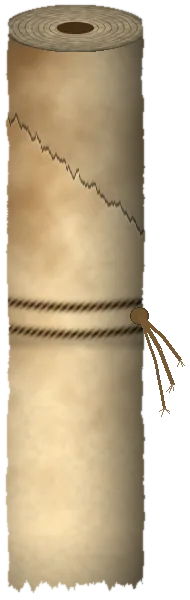
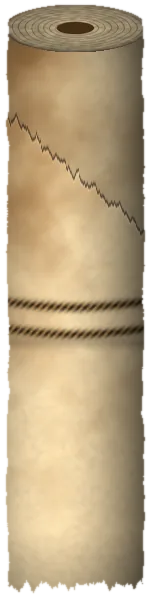
Contact scroll: no edge overhang, realistic larger quill, white SEND, rounded field highlights; closed scroll matches the bottle's note
The curled edges now end level with the paper at the bottom. The quill
cursor is a bigger (96px), more detailed burgundy feather with a copper
grip and steel nib. The seal's SEND is white, field highlights have
rounded corners, and the knot is gone from the rolled scroll and the 3D
note. The scroll now shrinks as it rolls up so that, closed, it is the
3D note's exact size where the bottle will be; it lines up at the mouth
and slides in together with the note.

Claude-Session: https://claude.ai/code/session_017duqhLnJj8AB6LNW48U1TW

diff --git a/contact.html b/contact.html
@@ -12,10 +12,10 @@
     </script>
     <link rel="stylesheet" href="styles.css?v=48" />
     <link rel="stylesheet" href="https://fonts.googleapis.com/css2?family=Caveat:wght@500;600&display=swap" />
-    <link rel="stylesheet" href="shore.css?v=9" />
+    <link rel="stylesheet" href="shore.css?v=10" />
     <script src="script.js?v=47" defer></script>
     <script type="importmap">{"imports":{"three":"https://cdn.jsdelivr.net/npm/three@0.170.0/build/three.module.min.js"}}</script>
-    <script type="module" src="shore-scene.js?v=3"></script>
+    <script type="module" src="shore-scene.js?v=4"></script>
   </head>
   <body class="shore-page">
     <header class="site-nav">
@@ -119,31 +119,43 @@
           .then((res) => res.json().catch(() => ({})).then((reply) => res.ok && reply.success === true));
       }
 
-      // the sheet winds onto its two rolls, which meet in the middle
-      async function rollUp() {
-        const half = sheet.offsetWidth / 2 - rollL.offsetWidth / 2; // the curls meet in the middle
+      // The note that goes into the bottle (shore-scene.js) is 0.9 x 0.23 world units. The scroll
+      // shrinks while it rolls up so that, closed, it is exactly that size where the bottle will be,
+      // and then moves into the neck together with the 3D note.
+      const NOTE_LEN = 0.9, NOTE_TOP = 0.44, NOTE_TRAVEL = 1.88; // length; start above the mouth; slide down the bottle
+      let closed = { s: 1, k: 1, half: 0 };
+      // the sheet winds onto its two curls, which meet in the middle and become one rolled scroll
+      async function rollUp(unit) {
+        const H = scroll.offsetHeight, rw = rollL.offsetWidth;
+        const half = sheet.offsetWidth / 2 - rw / 2;
+        const s = (NOTE_LEN * unit) / H;   // closed = the bottle note's size
+        const k = Math.max(1, (H * 0.25) / rw - 1); // the curls widen to the rolled tube's width (it is H/4 wide)
+        closed = { s, k, half };
         await Promise.all([
+          play(scroll, [{ transform: "none" }, { transform: `scale(${s})` }], 1100),
           play(sheet, [{ clipPath: "inset(0 0 0 0)" }, { clipPath: `inset(0 ${half}px 0 ${half}px)` }], 900),
-          play(rollL, [{ transform: "none" }, { transform: `translateX(${half - rollL.offsetWidth / 2}px) scaleX(1.12)` }], 900),
-          play(rollR, [{ transform: "none" }, { transform: `translateX(${-half + rollL.offsetWidth / 2}px) scaleX(1.12)` }], 900),
+          play(rollL, [{ transform: "none" }, { transform: `translateX(${half - rw / 2}px) scaleX(${k})` }], 900),
+          play(rollR, [{ transform: "none" }, { transform: `translateX(${-half + rw / 2}px) scaleX(${k})` }], 900),
         ]);
-        // the two curls become one rolled, tied scroll
         await Promise.all([
           play(rolled, [{ opacity: 0 }, { opacity: 1 }], 300, "ease-out"),
           play(rollL, [{ opacity: 1 }, { opacity: 0 }], 300),
           play(rollR, [{ opacity: 1 }, { opacity: 0 }], 300),
         ]);
       }
+      // a fresh scroll: grows from the closed size and unrolls
       function unroll() {
         scroll.getAnimations({ subtree: true }).forEach((a) => a.cancel());
-        const half = sheet.offsetWidth / 2 - rollL.offsetWidth / 2;
+        const { s, k, half } = closed, rw = rollL.offsetWidth;
         return Promise.all([
-          play(scroll, [{ opacity: 0 }, { opacity: 1 }], 300, "ease-out"),
-          play(sheet, [{ clipPath: `inset(0 ${half}px 0 ${half}px)` }, { clipPath: "inset(0 0 0 0)" }], 900),
-          play(rollL, [{ transform: `translateX(${half - rollL.offsetWidth / 2}px)` }, { transform: "none" }], 900),
-          play(rollR, [{ transform: `translateX(${-half + rollL.offsetWidth / 2}px)` }, { transform: "none" }], 900),
+          play(scroll, [{ opacity: 0, transform: `scale(${s})` }, { opacity: 1, offset: 0.25 }, { opacity: 1, transform: "none" }], 1100),
+          play(rolled, [{ opacity: 1 }, { opacity: 1, offset: 0.3 }, { opacity: 0 }], 600),
+          play(sheet, [{ clipPath: `inset(0 ${half}px 0 ${half}px)` }, { clipPath: "inset(0 0 0 0)" }], 1100),
+          play(rollL, [{ transform: `translateX(${half - rw / 2}px) scaleX(${k})` }, { transform: "none" }], 1100),
+          play(rollR, [{ transform: `translateX(${-half + rw / 2}px) scaleX(${k})` }, { transform: "none" }], 1100),
         ]).then(() => scroll.getAnimations({ subtree: true }).forEach((a) => a.cancel()));
       }
+
       // the crumpled note with the confirmation: settles in, and later melts away
       function showNote() {
         driftNote.classList.add("is-shown");
@@ -166,22 +178,26 @@
           })(t0);
         });
       }
-      // the rolled scroll shrinks to fit the bottle's neck and slides in
-      async function intoBottle(mouth) {
+      // the closed scroll lines up with the top of the bottle, where the 3D note starts, then both
+      // slide down the neck together: the page's scroll hands over to the 3D one inside the glass
+      async function intoBottle(mouth, insertNote) {
         const r = scroll.getBoundingClientRect();
-        const s = Math.min(0.32, mouth.neck / (rolled.offsetWidth * 0.75)); // the tube is ~3/4 of the image's width
         const cx = r.left + r.width / 2, cy = r.top + r.height / 2;
-        const deg = (mouth.angle * 180) / Math.PI;
-        const h = r.height * s;
-        // the rolled scroll's bottom end at the mouth, along the bottle's axis
-        const tx = mouth.x - cx + Math.sin(mouth.angle) * (h / 2);
-        const ty = mouth.y - cy - Math.cos(mouth.angle) * (h / 2);
-        await play(scroll, [{ transform: "none" }, { transform: `translate(${tx}px, ${ty}px) rotate(${deg}deg) scale(${s})` }], 750);
-        const dx = -Math.sin(mouth.angle) * h, dy = Math.cos(mouth.angle) * h;
-        await play(scroll, [
-          { transform: `translate(${tx}px, ${ty}px) rotate(${deg}deg) scale(${s})`, opacity: 1 },
-          { transform: `translate(${tx + dx}px, ${ty + dy}px) rotate(${deg}deg) scale(${s})`, opacity: 0 },
-        ], 650, "ease-in");
+        const s = (NOTE_LEN * mouth.unit) / scroll.offsetHeight;
+        const deg = (mouth.angle * 180) / Math.PI, ux = Math.sin(mouth.angle), uy = -Math.cos(mouth.angle);
+        const tx = mouth.x + ux * NOTE_TOP * mouth.unit - cx, ty = mouth.y + uy * NOTE_TOP * mouth.unit - cy;
+        const at = (x, y) => `translate(${x}px, ${y}px) rotate(${deg}deg) scale(${s})`;
+        await play(scroll, [{ transform: `scale(${closed.s})` }, { transform: at(tx, ty) }], 800);
+        const d = NOTE_TRAVEL * mouth.unit;
+        await Promise.all([
+          play(scroll, [
+            { transform: at(tx, ty), opacity: 1 },
+            { opacity: 1, offset: 0.12 },
+            { opacity: 0, offset: 0.32 },
+            { transform: at(tx - ux * d, ty - uy * d), opacity: 0 },
+          ], 900, "cubic-bezier(.65,0,.35,1)"),
+          insertNote(900),
+        ]);
       }
 
       letter.addEventListener("submit", async (e) => {
@@ -200,11 +216,11 @@
             status.textContent = SENT;
             return;
           }
-          await rollUp();
           const r = scroll.getBoundingClientRect();
+          await rollUp(shore.unitAt());
           await shore.bottleTo(r.left + r.width / 2, r.top + r.height * 0.6);
           status.textContent = "Sealing your bottle…";
-          await Promise.all([intoBottle(shore.mouth()), wait(500).then(() => shore.insertNote())]);
+          await intoBottle(shore.mouth(), (ms) => shore.insertNote(ms));
           await shore.cork();
           if (!(await sending)) {
             await shore.abort(); // uncork, the bottle goes back to the sand, the message comes back

diff --git a/shore-scene.js b/shore-scene.js
@@ -190,15 +190,12 @@ const note = new THREE.Group();
   const paperSide = dissolvable(new THREE.MeshStandardMaterial({ map: tex('assets/shore/note-body.webp'), roughness: 0.9 }));
   const paperEnd = dissolvable(new THREE.MeshStandardMaterial({ map: tex('assets/shore/note-end.webp'), roughness: 0.95 }));
   const twine = dissolvable(new THREE.MeshStandardMaterial({ color: 0x7a5a32, roughness: 1 }));
-  note.add(new THREE.Mesh(new THREE.CylinderGeometry(0.115, 0.112, 0.82, 24), [paperSide, paperEnd, paperEnd]));
+  note.add(new THREE.Mesh(new THREE.CylinderGeometry(0.115, 0.112, 0.9, 24), [paperSide, paperEnd, paperEnd])); // contact.html sizes the page's scroll to this
   [-0.02, 0.05].forEach((y) => {
     const loop = new THREE.Mesh(new THREE.TorusGeometry(0.119, 0.011, 6, 28), twine);
     loop.rotation.x = Math.PI / 2; loop.position.y = y;
     note.add(loop);
   });
-  const knot = new THREE.Mesh(new THREE.SphereGeometry(0.022, 8, 6), twine);
-  knot.position.set(0.12, 0.015, 0);
-  note.add(knot);
   note.visible = false;
   bottle.add(note);
   bottle.position.set(-0.34, seabed(-0.34, 0.1) - 0.17, 0.1);
@@ -363,17 +360,23 @@ window.__shore = {
     target.sub(tmp.set(0, 1.05, 0).applyQuaternion(upright)); // the bottle's middle on that point
     await moveObject(bottle, target, upright, 1100, 0.6);
   },
-  // where the mouth is on screen, the bottle's tilt there, and the neck's width in pixels
+  // pixels per world unit where the bottle will stand (so the page can size the closed scroll first)
+  unitAt() {
+    const dist = camera.position.distanceTo(bottle.position) * 0.72;
+    return viewH / (2 * dist * Math.tan(THREE.MathUtils.degToRad(camera.fov) / 2));
+  },
+  // where the mouth is on screen, the bottle's tilt there, the neck's width and pixels per unit there
   mouth() {
     const m = toScreen(mouth.getWorldPosition(tmp));
     const b = toScreen(bottle.localToWorld(tmp.set(0, 1.0, 0)));
     const l = toScreen(bottle.localToWorld(tmp.set(-0.17, 1.8, 0))), r = toScreen(bottle.localToWorld(tmp.set(0.17, 1.8, 0)));
-    return { x: m.x, y: m.y, angle: Math.atan2(m.x - b.x, b.y - m.y), neck: Math.hypot(l.x - r.x, l.y - r.y) };
+    return { x: m.x, y: m.y, angle: Math.atan2(m.x - b.x, b.y - m.y), neck: Math.hypot(l.x - r.x, l.y - r.y), unit: Math.hypot(m.x - b.x, m.y - b.y) / 1.06 };
   },
   // the rolled message slides down the neck into the bottle
-  async insertNote() {
+  async insertNote(ms = 900) {
     note.visible = true;
-    await tween(800, (k) => { note.position.set(0, 2.0 - 1.45 * k, 0); note.scale.setScalar(0.4 + 0.6 * k); });
+    note.scale.setScalar(1);
+    await tween(ms, (k) => note.position.set(0, 2.5 - 1.88 * k, 0)); // from just above the mouth (as the page's scroll) down inside
   },
   // the cork leaves the sand and seals the mouth
   async cork() {

diff --git a/shore.css b/shore.css
@@ -127,7 +127,7 @@
   position: absolute;
   z-index: 1;
   top: 0;
-  bottom: -3.27%;
+  bottom: 0;
   left: 0;
   width: 6.4%;
   background: url("assets/shore/scroll-edge-l.webp") center / 100% 100% no-repeat;
@@ -140,9 +140,9 @@
   z-index: 2;
   left: 50%;
   top: 50%;
-  height: 92%;
+  height: 100%;
   width: auto;
-  translate: -42% -50%; /* the knot's loose ends stick out on the right */
+  translate: -50% -50%;
   opacity: 0;
   pointer-events: none;
 }
@@ -168,7 +168,7 @@
 .drift-note p { margin: 0; font: 600 clamp(1.5rem, 2.6vw, 1.9rem)/1.32 Caveat, cursive; color: #1f2a52; transform: rotate(-1.5deg); }
 .drift-note.is-shown { visibility: visible; }
 /* writing on the scroll: the cursor becomes a quill (its nib is the hotspot) */
-.scroll, .scroll input, .scroll textarea, .scroll label { cursor: url("assets/shore/quill-cursor.png") 2 46, text; }
+.scroll, .scroll input, .scroll textarea, .scroll label { cursor: url("assets/shore/quill-cursor.png") 4 92, text; }
 
 .scroll-title {
   margin: 0 0 0.3rem;
@@ -199,7 +199,7 @@
   padding: 0.15rem 0.1rem;
   border: 0;
   border-bottom: 1.5px dashed rgba(58, 36, 16, 0.4);
-  border-radius: 0;
+  border-radius: 6px 6px 0 0; /* the highlight behind a field has softly rounded corners */
   background: transparent;
   color: #241405;
   font: 600 1.5rem/1.35 Caveat, cursive;
@@ -209,6 +209,7 @@
 .scroll-field textarea {
   min-height: 7.8rem;
   resize: none; /* no grey resize handle on the parchment */
+  border-radius: 6px;
   border: 0;
   background: repeating-linear-gradient(transparent 0 calc(2rem - 1.5px), rgba(58, 36, 16, 0.3) calc(2rem - 1.5px) 2rem);
   line-height: 2rem;
@@ -227,11 +228,11 @@
   border: 0;
   border-radius: 50%;
   background: url("assets/shore/wax-seal.webp") center / contain no-repeat;
-  color: #7e1a12;
+  color: #fff;
   font: 800 0.82rem/1 Manrope, sans-serif;
   letter-spacing: 0.22em;
   text-transform: uppercase;
-  text-shadow: 0 1px 0 rgba(255, 175, 155, 0.55), 0 -1px 0 rgba(50, 4, 2, 0.55); /* stamped in */
+  text-shadow: 0 1px 2px rgba(60, 6, 2, 0.75);
   cursor: pointer;
   transition: transform 0.25s, filter 0.25s;
 }
